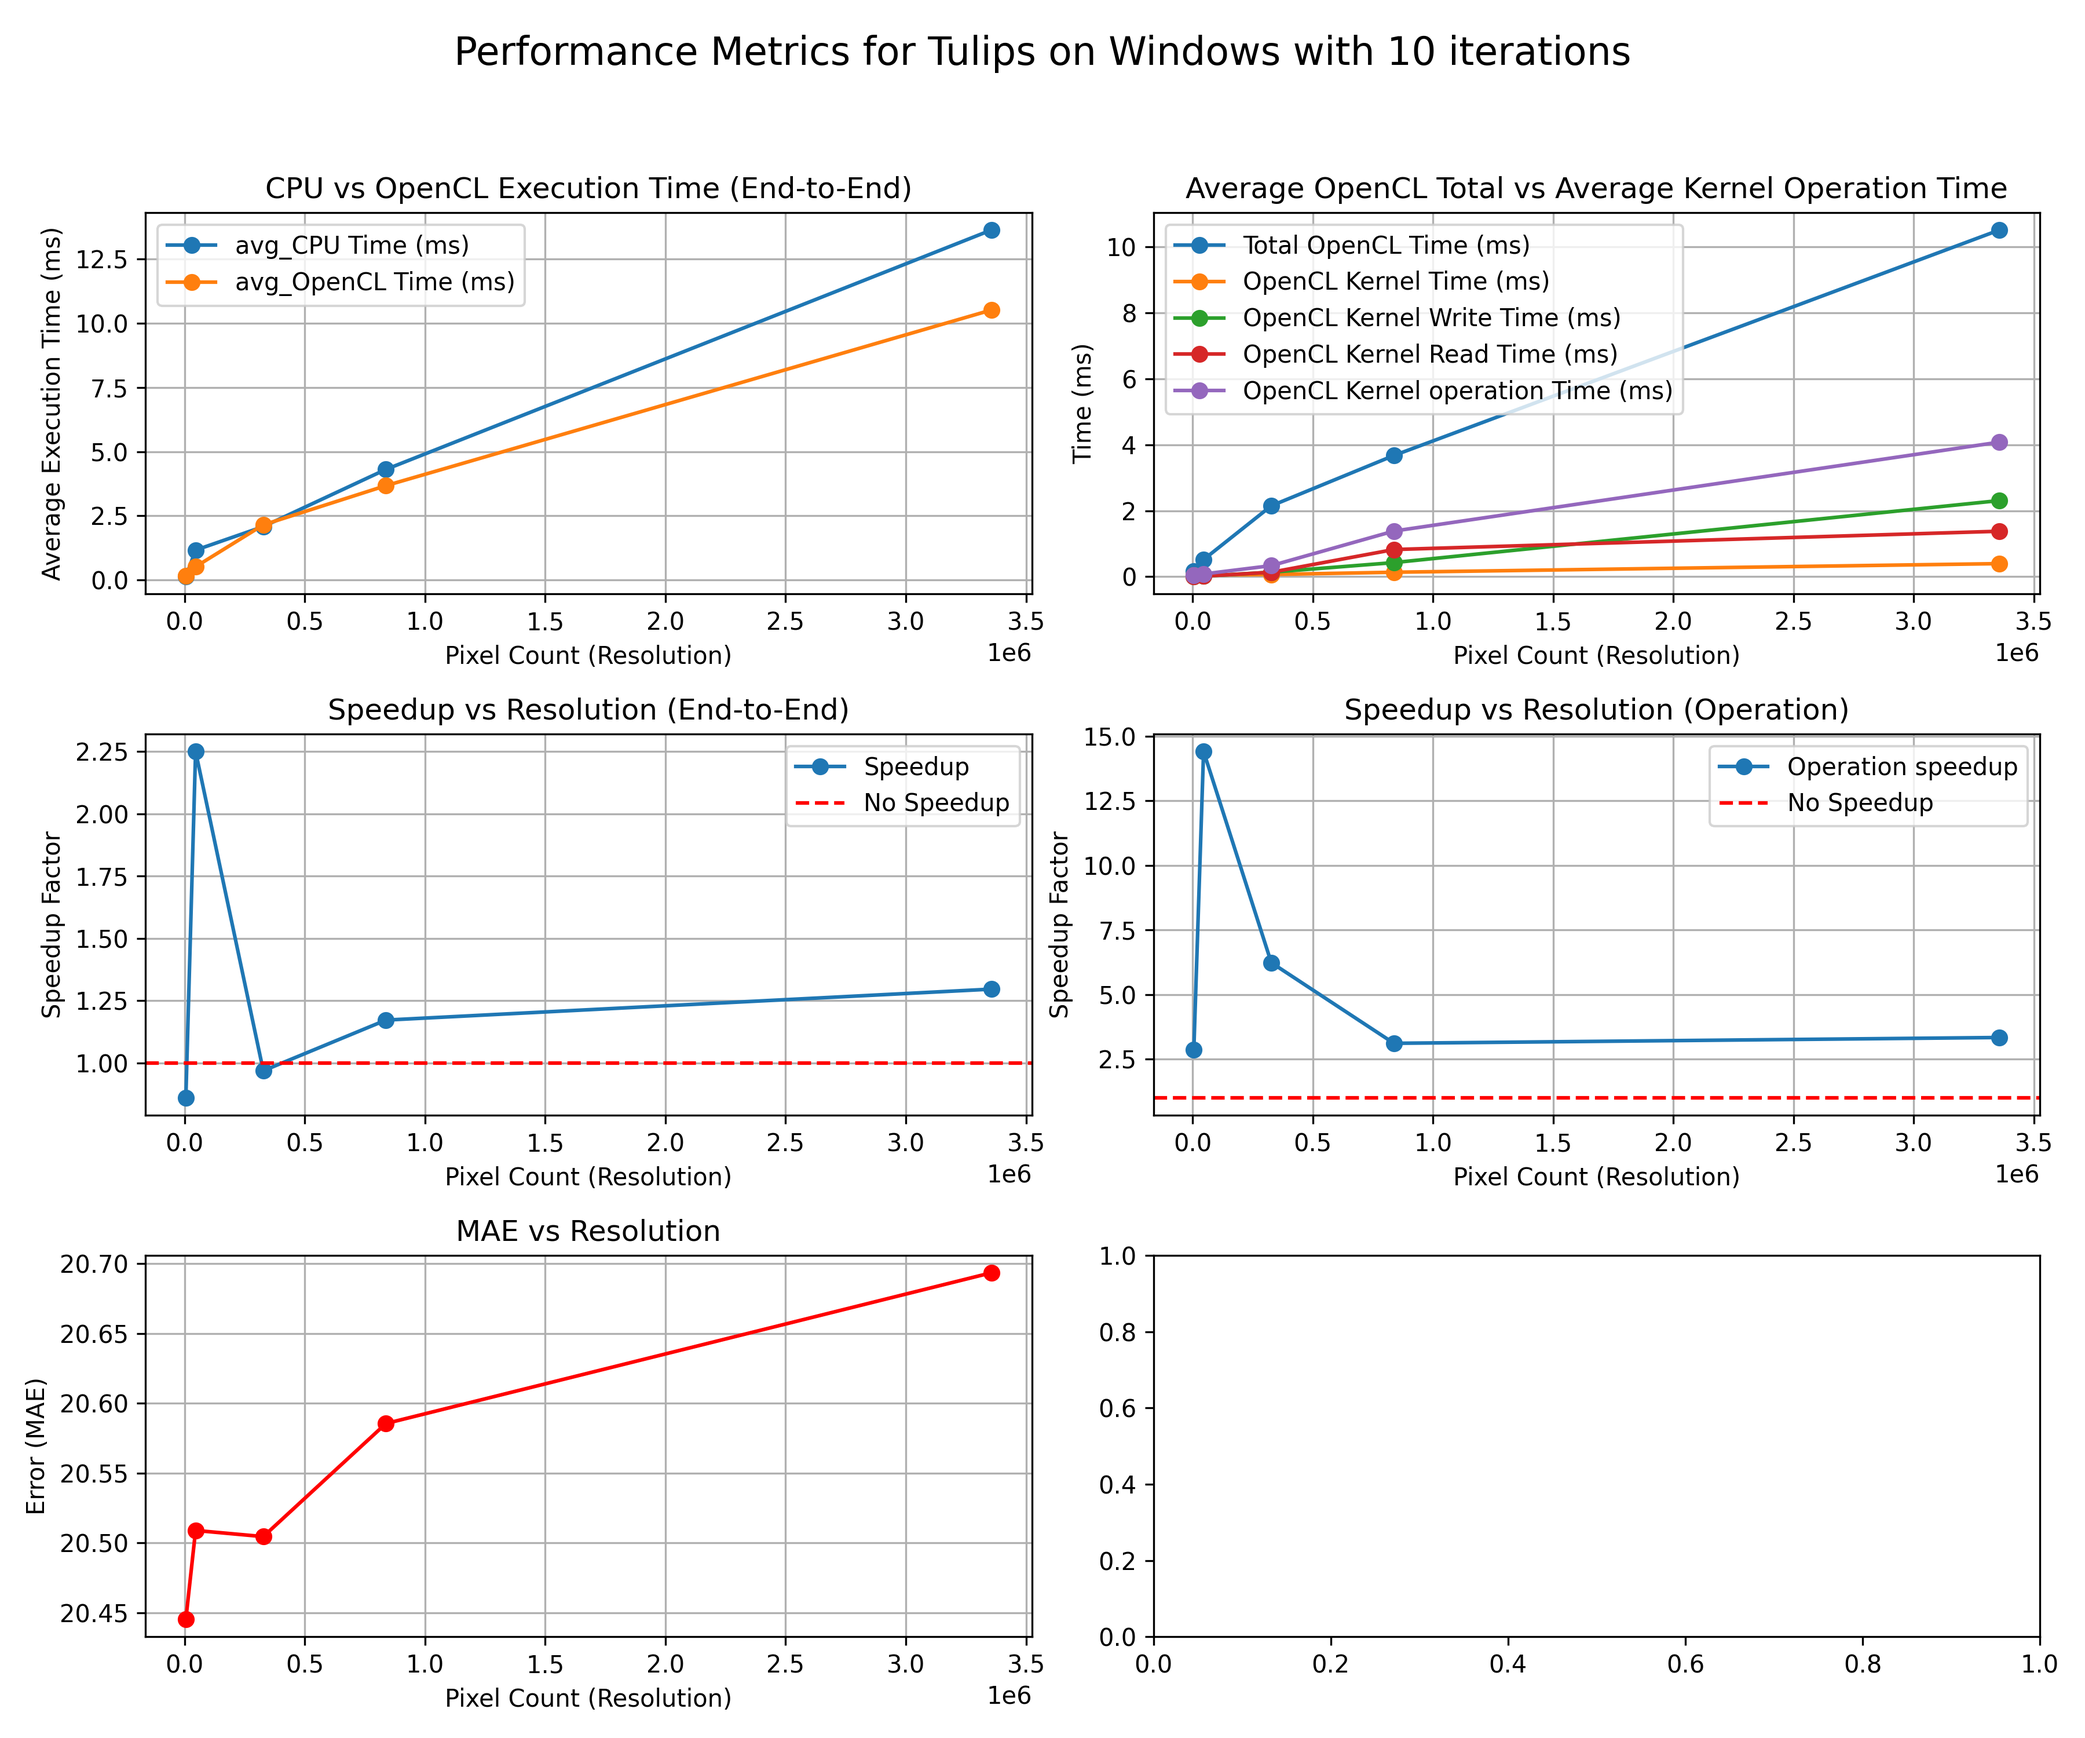
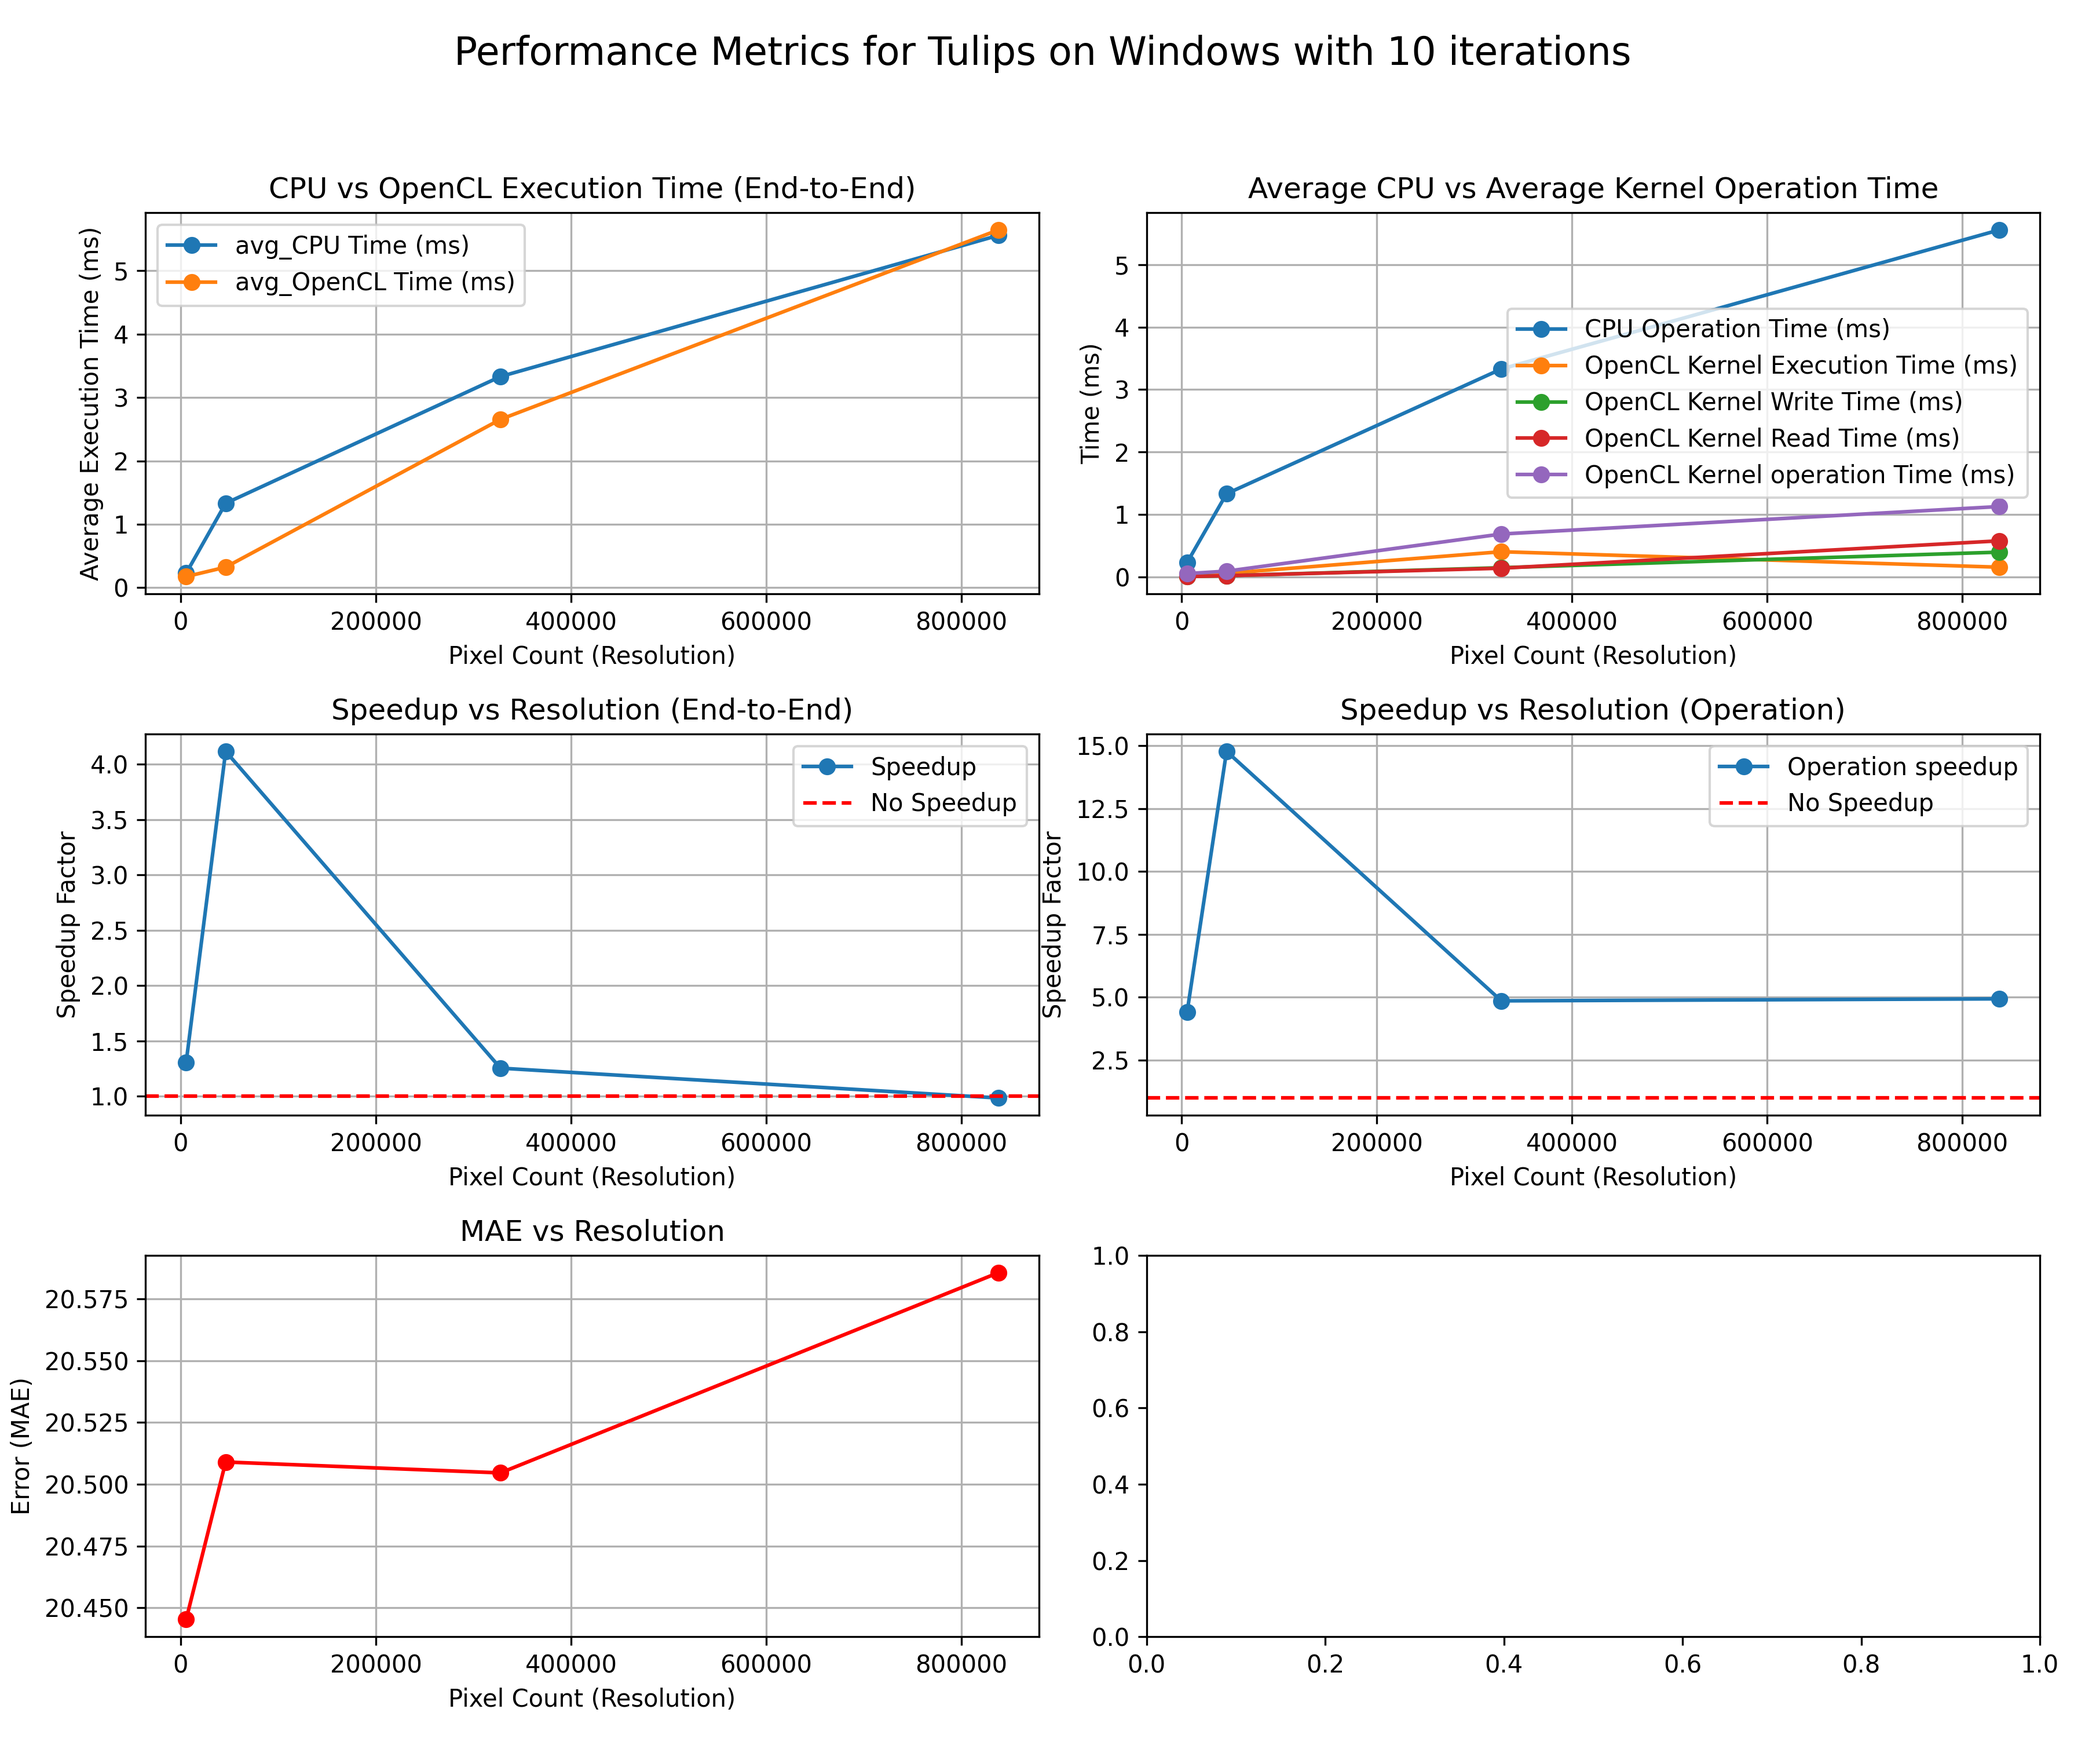
performed visualisation on Windows

diff --git a/src/Grayscale/results/visualisation.py b/src/Grayscale/results/visualisation.py
@@ -4,7 +4,7 @@ import matplotlib.pyplot as plt
 
 # 0 - Linux
 # 1 - Windows
-USING_OS = 0
+USING_OS = 1
 SHOW_FIGURES = False
 SHOW_TERMINAL_OUTPUT = False
 SAVE_DATAFRAME = True

diff --git a/src/Grayscale/grayscale.cpp b/src/Grayscale/grayscale.cpp
@@ -6,7 +6,7 @@
 #include <FileHandler.hpp>
 
 // CONSTANTS
-#define PLATFORM_INDEX 1
+#define PLATFORM_INDEX 0
 #define DEVICE_INDEX 0
 
 int NUMBER_OF_ITERATIONS = 100;
